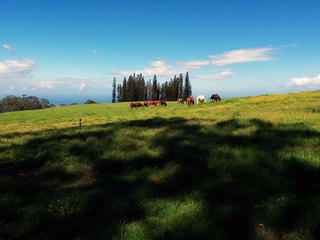
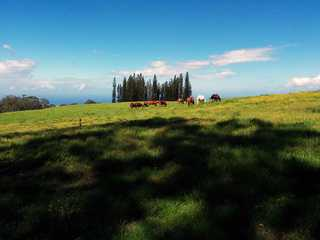
Reduced quality of images

diff --git a/Lesson 07 - Units, Formats, Environments/Concept 16 Quiz/Project-Part-1-Start/Gruntfile.js b/Lesson 07 - Units, Formats, Environments/Concept 16 Quiz/Project-Part-1-Start/Gruntfile.js
@@ -15,7 +15,7 @@ module.exports = function(grunt) {
           sizes: [{
               width: 320,
               height: 240,
-              quality: 100
+              quality: 50
             /*
             Change these:
             
